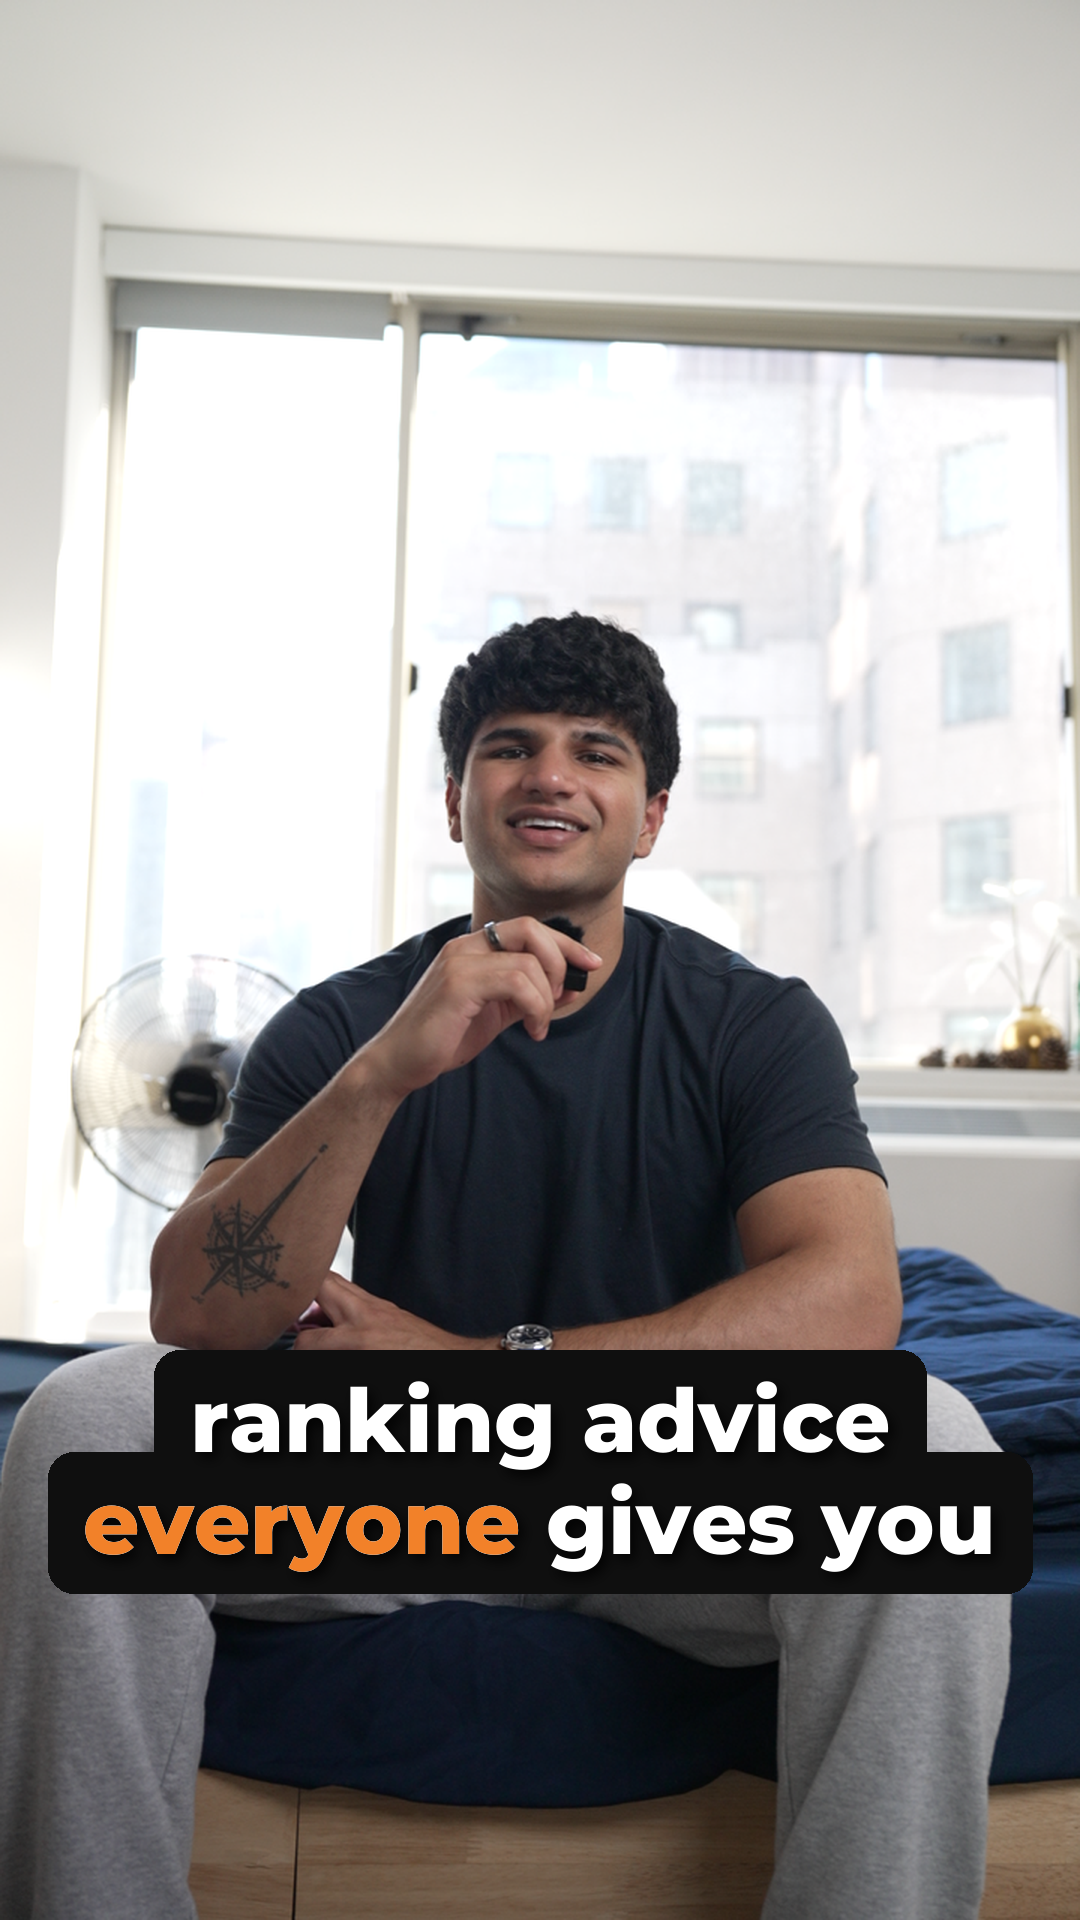
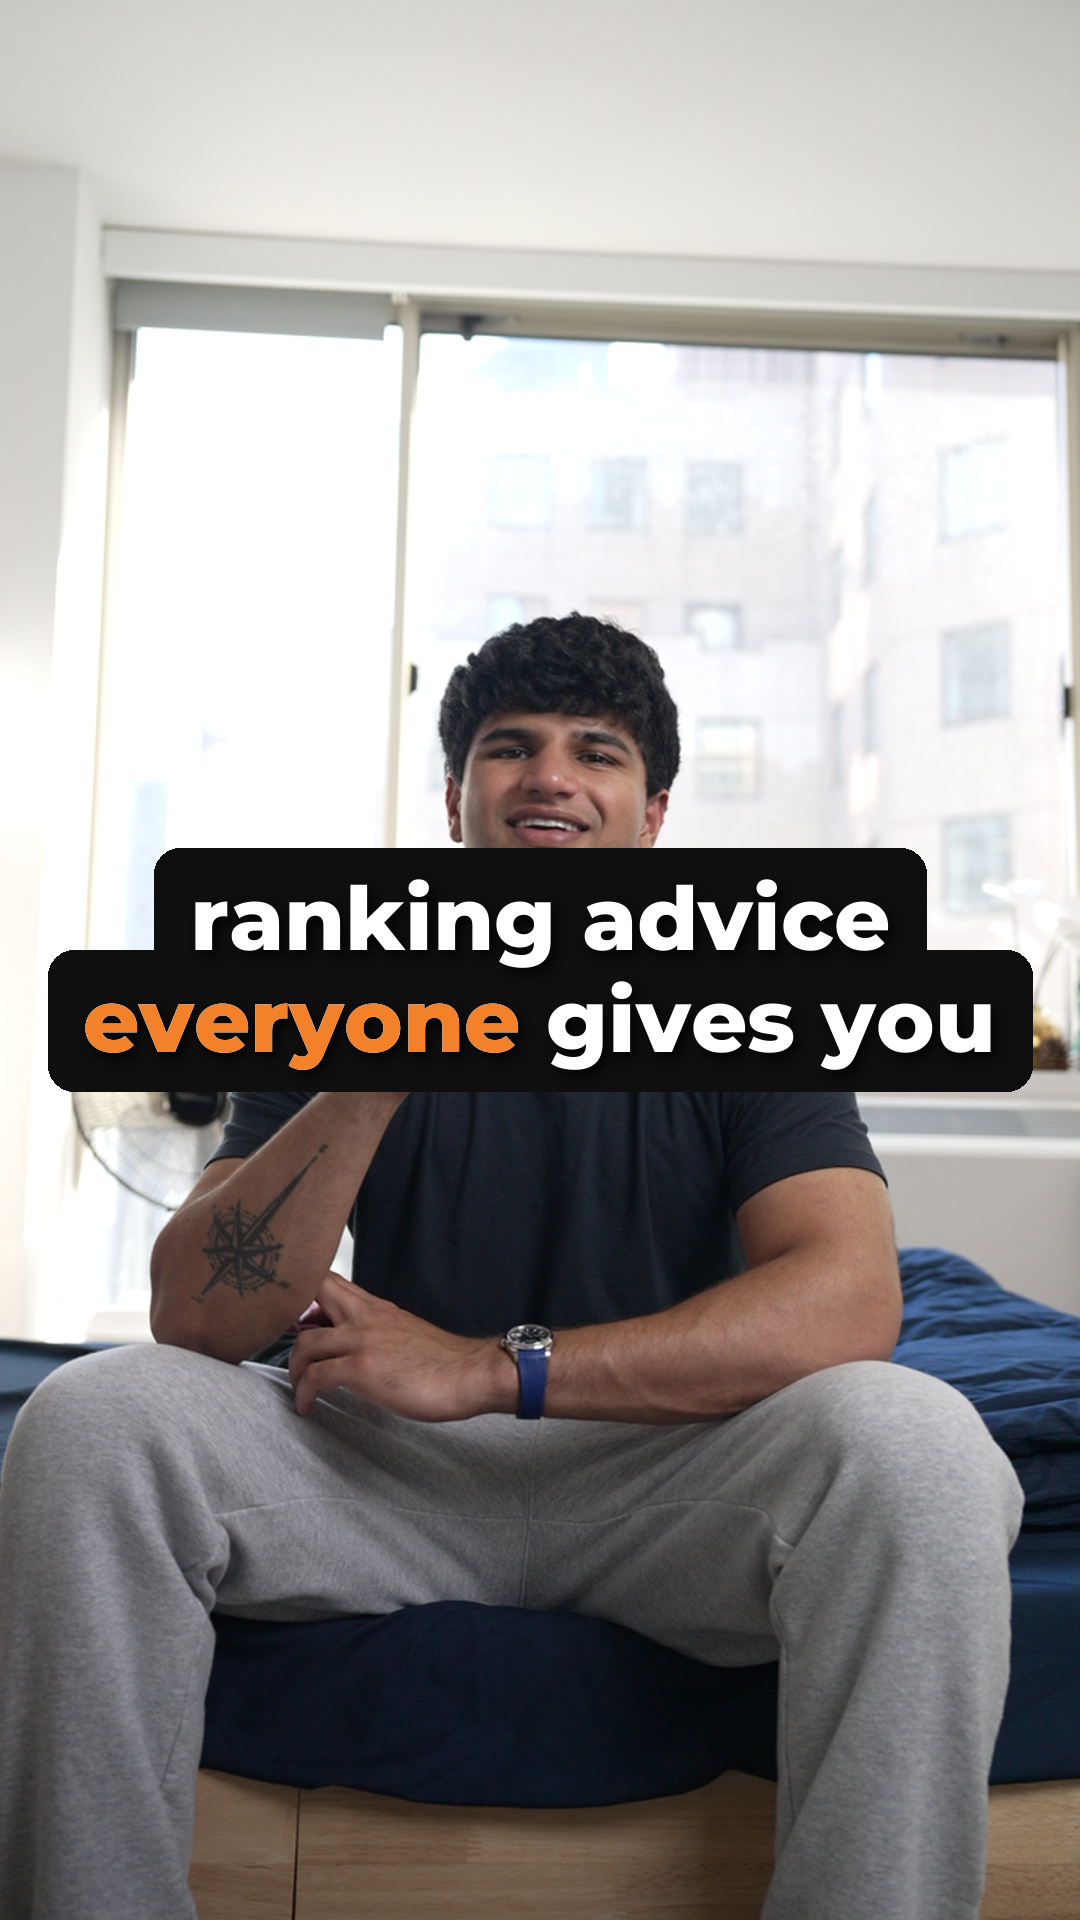
Batch 2: chin-relative title placement (--y), t44 back to two-person frame

Changed region(s): [[0.0306, 0.6875, 0.9778, 0.8438], [0.0306, 0.4375, 0.9778, 0.5938]]

diff --git a/python-scripts/ig-grid-thumbs/render_thumb.py b/python-scripts/ig-grid-thumbs/render_thumb.py
@@ -107,7 +107,8 @@ def wrap_lines(title, font, max_width, draw):
     return lines
 
 
-def render(frame_img, title, accent=None, pos="top", bg="scrim", out="cover.png", cx=0.5):
+def render(frame_img, title, accent=None, pos="top", bg="scrim", out="cover.png", cx=0.5,
+           ypos=None):
     base = fit_canvas(frame_img, cx)
     max_width = W - 2 * SAFE_MARGIN_X
 
@@ -131,6 +132,8 @@ def render(frame_img, title, accent=None, pos="top", bg="scrim", out="cover.png"
         "bottom": GRID_BOTTOM - block_h - 110,
     }
     y0 = anchors[pos]
+    if ypos is not None:  # explicit placement (e.g. just below the chin)
+        y0 = min(max(round(ypos * H), GRID_TOP + 40), GRID_BOTTOM - block_h - 40)
 
     # dark gradient band behind the text for legibility on any footage
     if bg == "scrim":
@@ -206,6 +209,8 @@ def main():
     p.add_argument("--no-scrim", action="store_true")
     p.add_argument("--bg", choices=["scrim", "none", "pill"], default="scrim")
     p.add_argument("--cx", type=float, default=0.5, help="horizontal crop focus 0-1")
+    p.add_argument("--y", type=float, default=None, dest="ypos",
+                   help="title-block top as fraction of height (e.g. 0.42 = just below chin)")
     p.add_argument("--out", default="cover.png")
     a = p.parse_args()
 
@@ -216,7 +221,8 @@ def main():
         img = Image.open(a.frame)
 
     bg = "none" if a.no_scrim else a.bg
-    out = render(img, a.title, accent=a.accent, pos=a.pos, bg=bg, out=a.out, cx=a.cx)
+    out = render(img, a.title, accent=a.accent, pos=a.pos, bg=bg, out=a.out, cx=a.cx,
+                 ypos=a.ypos)
     print(f"saved {out}")
 
 
